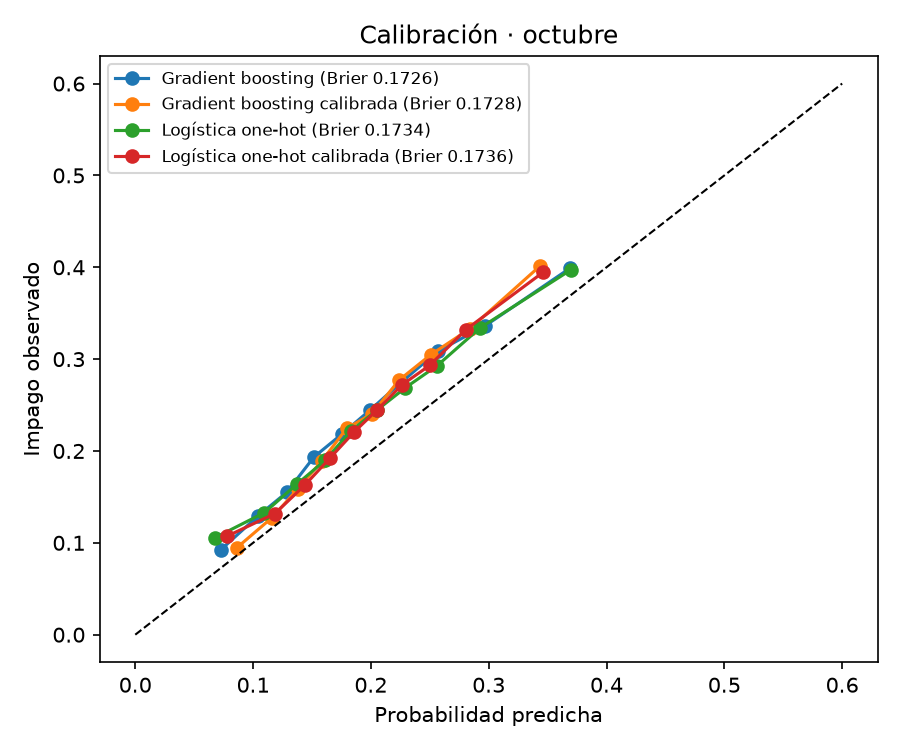
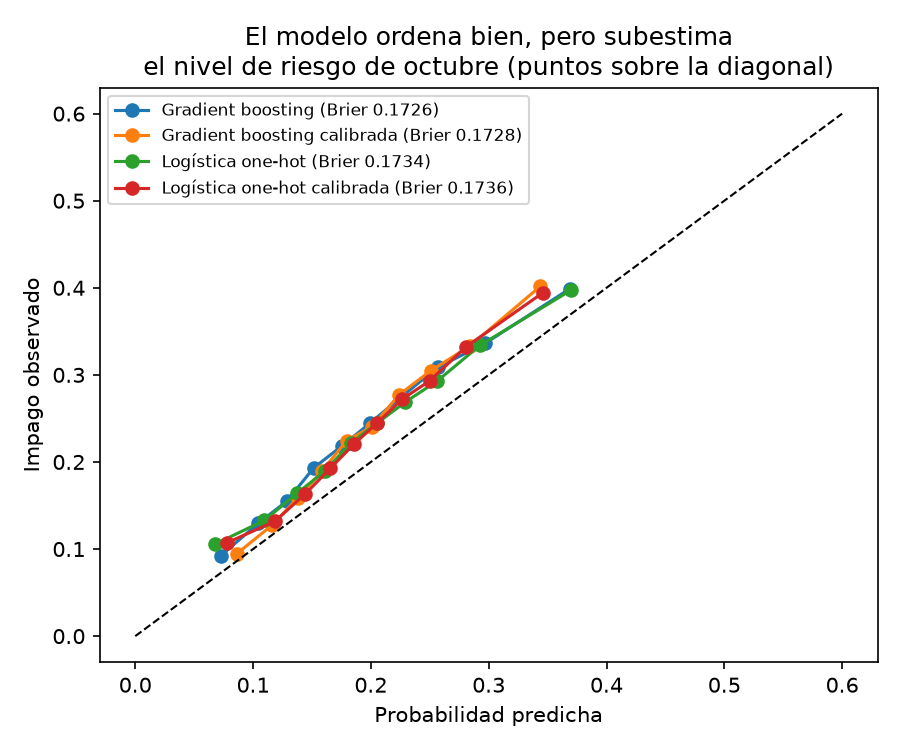
feat(modelado): títulos con hallazgo en los gráficos y corte recomendado del 88 %

diff --git a/modelado/modelado.py b/modelado/modelado.py
@@ -74,6 +74,7 @@ LIMITE = prep.LIMITE_IMPAGO          # CN2: impago de los aprobados < 21,71 %
 APROBACION = 0.90                    # CN1: aprobar al menos el 90 %
 FRANJA_REVISION = 0.05               # dentro del 90 % aprobado, el 5 % más riesgoso pasa a "revisar"
 MEJORA_MINIMA = 0.002                # una variable extra se acepta si sube el AUC al menos 0,002
+CORTE_RECOMENDADO = 0.88             # cumple CN2 con 98 % de confianza (bootstrap en modelado.ipynb)
 NUM_LOG = prep.NUM_LOG
 NUM_BASE = prep.NUM
 CAT_BASE = prep.CAT
@@ -421,7 +422,9 @@ def main(dir_datos, dir_limpios, dir_salida):
         fpr, tpr, _ = roc_curve(y_oct, probs[nombre])
         ax.plot(fpr, tpr, label=f"{nombre} (AUC {resultados[nombre]['AUC']:.3f})")
     ax.plot([0, 1], [0, 1], "k--", lw=1, label="Trivial (AUC 0,5)")
-    ax.set(xlabel="Tasa de falsos positivos", ylabel="Tasa de verdaderos positivos", title="Curva ROC · octubre")
+    ax.set(xlabel="Tasa de falsos positivos", ylabel="Tasa de verdaderos positivos",
+           title=f"Los modelos ordenan mejor que la regla del buró\n(AUC {resultados['Gradient boosting']['AUC']:.3f}"
+                 f" frente a {resultados['Regla buró']['AUC']:.3f}) · octubre")
     ax.legend(fontsize=8)
     fig.tight_layout(); fig.savefig(grafico("roc_octubre.png"), dpi=150); plt.close(fig)
 
@@ -432,8 +435,11 @@ def main(dir_datos, dir_limpios, dir_salida):
             label="Regla buró (categorías completas)")
     ax.axhline(LIMITE * 100, color="red", ls=":", label=f"Meta CN2 ({LIMITE:.2%})")
     ax.axvline(APROBACION * 100, color="green", ls=":", label=f"Meta CN1 ({APROBACION:.0%})")
+    ax.axvline(CORTE_RECOMENDADO * 100, color="black", ls="--", lw=1,
+               label=f"Corte recomendado ({CORTE_RECOMENDADO:.0%})")
     ax.set(xlabel="% de solicitudes aprobadas", ylabel="% de impago de los aprobados",
-           title="Aprobación vs. impago · octubre", xlim=(30, 100))
+           title="Con el modelo se aprueban muchas más solicitudes\ncon el mismo impago que con la regla del buró · octubre",
+           xlim=(30, 100))
     ax.legend(fontsize=8)
     fig.tight_layout(); fig.savefig(grafico("curva_aprobacion_impago.png"), dpi=150); plt.close(fig)
 
@@ -442,20 +448,23 @@ def main(dir_datos, dir_limpios, dir_salida):
         frac, media = calibration_curve(y_oct, probs[nombre], n_bins=10, strategy="quantile")
         ax.plot(media, frac, "o-", label=f"{nombre} (Brier {resultados[nombre]['Brier']:.4f})")
     ax.plot([0, 0.6], [0, 0.6], "k--", lw=1)
-    ax.set(xlabel="Probabilidad predicha", ylabel="Impago observado", title="Calibración · octubre")
+    ax.set(xlabel="Probabilidad predicha", ylabel="Impago observado",
+           title="El modelo ordena bien, pero subestima\nel nivel de riesgo de octubre (puntos sobre la diagonal)")
     ax.legend(fontsize=8)
     fig.tight_layout(); fig.savefig(grafico("calibracion_octubre.png"), dpi=150); plt.close(fig)
 
     fig, ax = plt.subplots(figsize=(7, 5))
     imp_g = importancia.sort_values("caida_AUC")
     ax.barh(imp_g["variable"], imp_g["caida_AUC"], xerr=imp_g["desv"])
-    ax.set(xlabel="Caída del AUC al permutar", title="Importancia de variables · gradient boosting")
+    ax.set(xlabel="Caída del AUC al permutar la variable",
+           title="LTV, sucursal y buró explican la mayor parte\ndel modelo de Ventas (gradient boosting)")
     fig.tight_layout(); fig.savefig(grafico("importancia_boosting.png"), dpi=150); plt.close(fig)
 
     fig, ax = plt.subplots(figsize=(7, 6))
     top = coef.head(20).iloc[::-1]
     ax.barh(top["variable"], top["coeficiente"], color=np.where(top["coeficiente"] > 0, "#c0392b", "#27ae60"))
-    ax.set(xlabel="Coeficiente (positivo = más riesgo de impago)", title="Regresión logística · 20 coeficientes")
+    ax.set(xlabel="Coeficiente (positivo = más riesgo de impago)",
+           title="La sucursal y el LTV son lo que más mueve el riesgo\nen la regresión logística (20 coeficientes mayores)")
     fig.tight_layout(); fig.savefig(grafico("coeficientes_logistica.png"), dpi=150); plt.close(fig)
     print("Gráficos guardados en", os.path.join(dir_salida, "graficos"))
 
